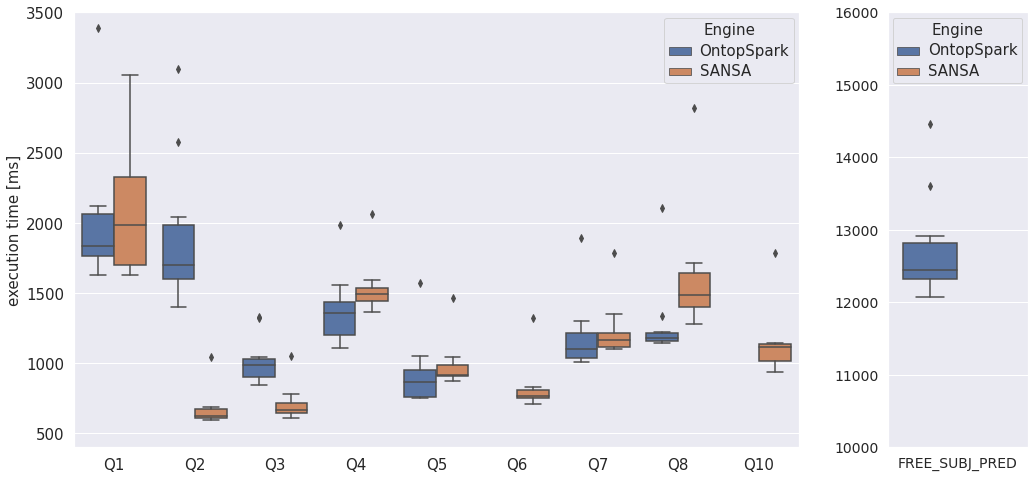
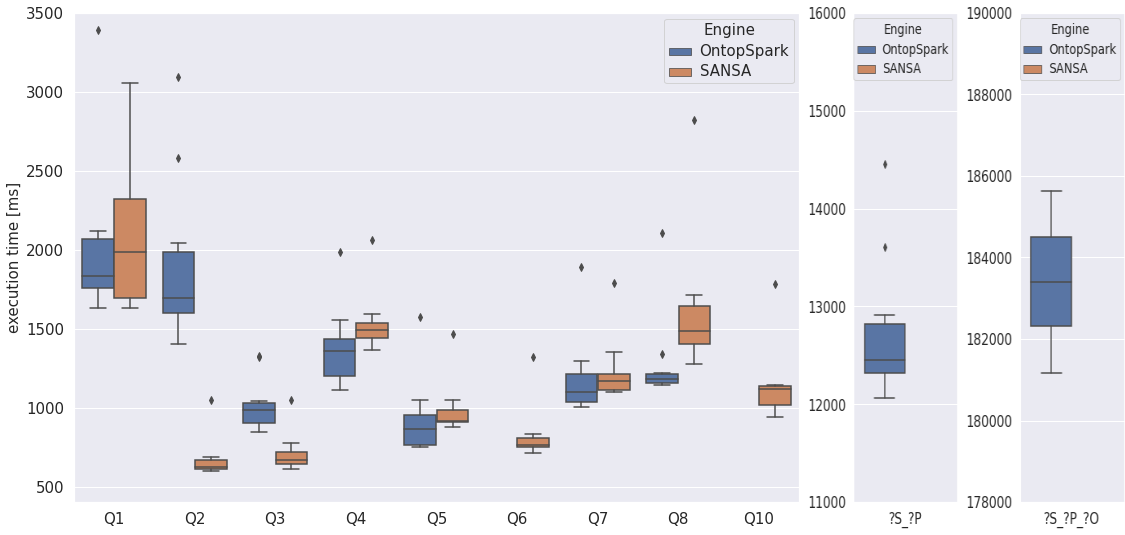
Update comparison - 10 runs for last query

diff --git a/readme.md b/readme.md
@@ -23,8 +23,8 @@ Since OntopSpark needs an ontology representing the semantic structure of the da
 | __Q7__ | 10 COL (30 rows) | 1231 ms | 1188 ms |
 | __Q8__ | 11 COL (6 rows) | 1613 ms | 1284 ms |
 | __Q10__ | 4 COL (6 rows) | 1142 ms | not possible |
-| __free_subj_pred__ | 2 COL (563 rows) | not possible | 12746 ms |  |
-| __entailment_regime__<br>(single run) | 3 COL (5091 rows) | not possible | 201 sec | (2) |
+| __?S_?P__ | 2 COL (563 rows) | not possible | 12746 ms |  |
+| __?S_?P_?O__ | 3 COL (5091 rows) | not possible | 183374 ms | (2) |
 
 __(1)__ the __regex()__ operator is not implemented in OntopSpark
 
